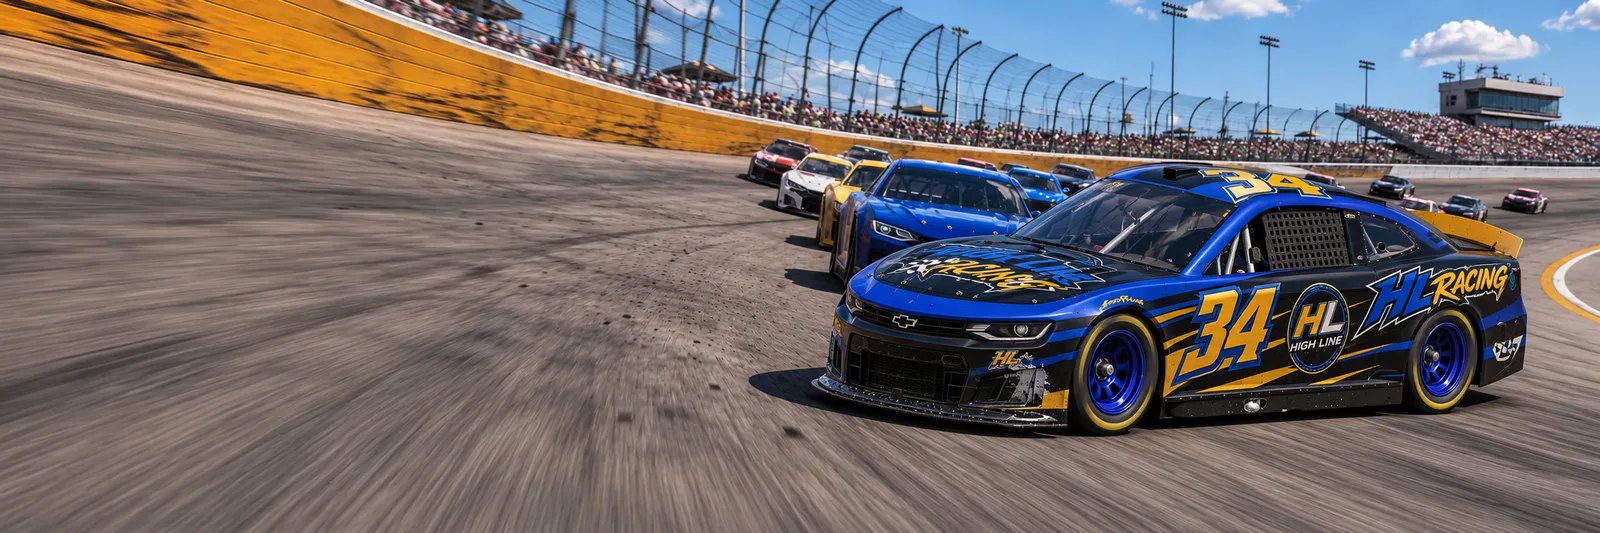
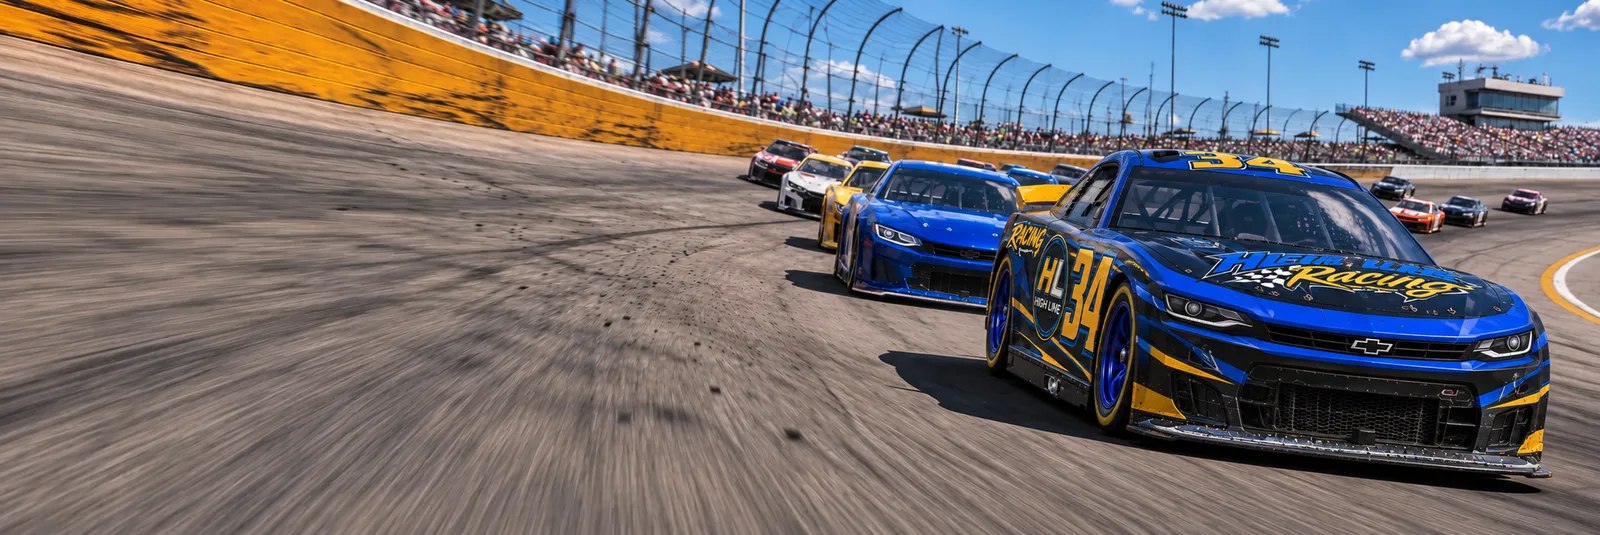
Align the No. 34 with the direction of the racing pack

diff --git a/assets/network-layout.css b/assets/network-layout.css
@@ -340,12 +340,12 @@ html[data-network-layout="broadcasters"] .bc-player-card {border:1px solid var(-
 html[data-network-layout="broadcasters"] .bc-player-top {border-bottom:3px solid var(--net-accent)!important}
 html[data-network-layout="home"] #hlrnNextGen .ng-section-head {
   padding:clamp(18px,3vw,40px)!important;
-  --inside-race-art:url("./network-art/hlrn-34-day.webp");
+  --inside-race-art:url("./network-art/hlrn-34-day.webp?v=right1");
   background:var(--photo-veil),var(--inside-race-art) center 59%/cover!important;
   border-inline-start:4px solid var(--net-accent)!important;
 }
 html[data-network-layout="home"][data-hlrn-theme="dark"] #hlrnNextGen .ng-section-head {
-  --inside-race-art:url("./network-art/hlrn-34-night.webp");
+  --inside-race-art:url("./network-art/hlrn-34-night.webp?v=right1");
 }
 @media(max-width:650px) {
   html[data-network-layout="home"] #hlrnNextGen .ng-section-head {

diff --git a/assets/network-layout.js b/assets/network-layout.js
@@ -30,7 +30,7 @@
   html.dataset.networkGroup = grouped.find(([, routes]) => routes.includes(key))?.[0] || "network";
   const sheet = document.createElement("link");
   sheet.rel = "stylesheet";
-  sheet.href = new URL("network-layout.css?v=20261109liveries", script.src);
+  sheet.href = new URL("network-layout.css?v=20261109direction", script.src);
   document.head.append(sheet);
 
   let themeButton;
